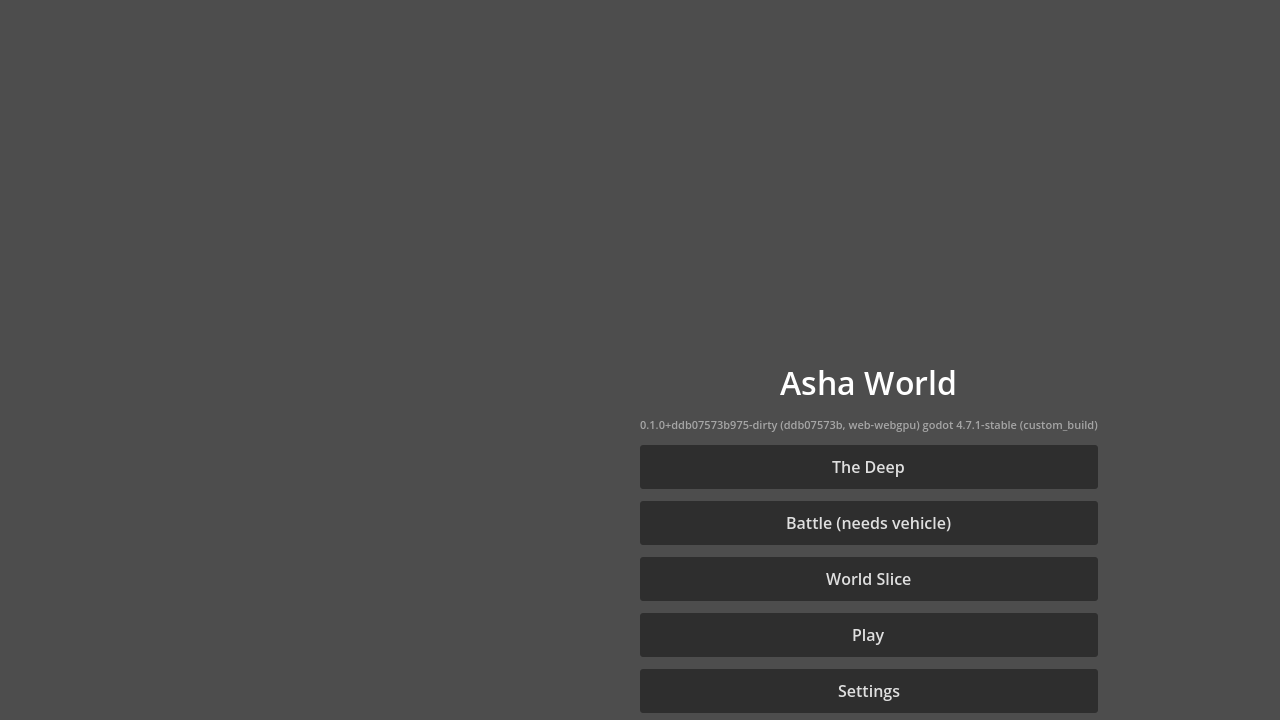
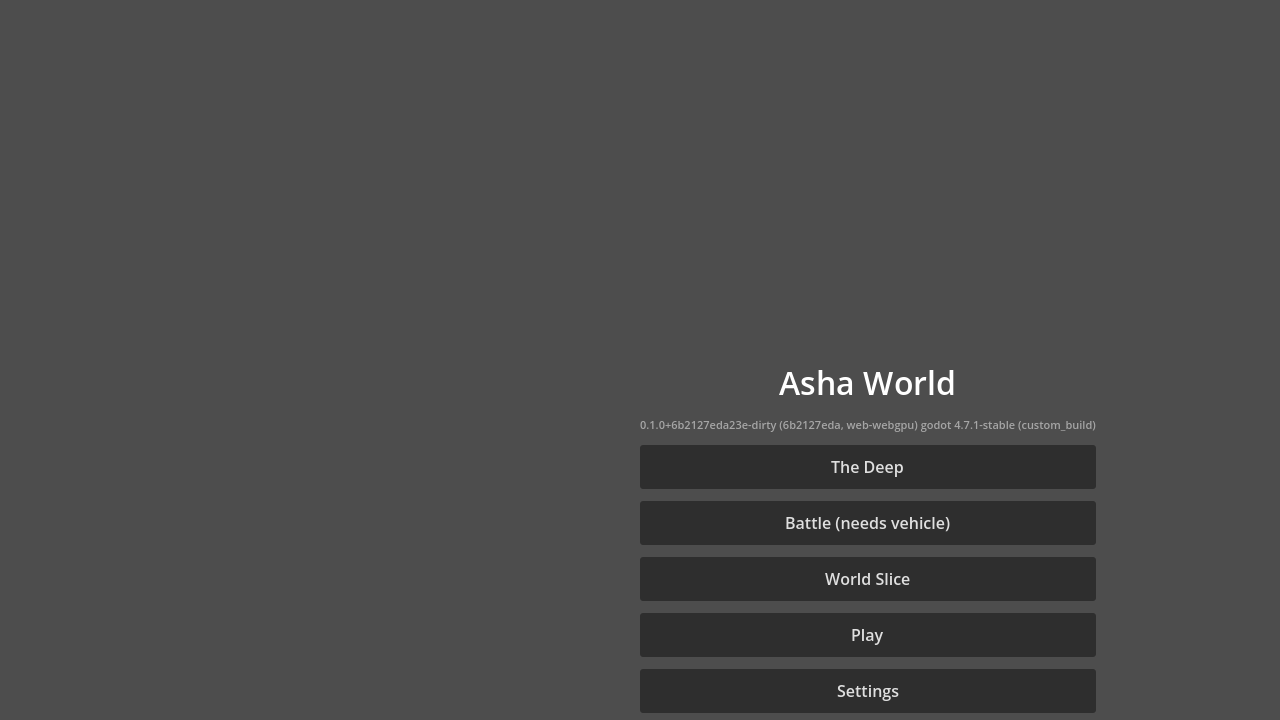
feat(mobile): touch controls on slice scenes + mobile-export runbook
StudioTouchStick on Deep + Battle HUDs (feeds the same move_* actions desktop
uses, self-hides on non-touch) so the slice plays on phone/tablet browsers
with no SDK. engine-validate still green (EXIT=0). docs/runbooks/mobile-export.md
documents the Android SDK path and that iOS needs macOS.

diff --git a/docs/runbooks/mobile-export.md b/docs/runbooks/mobile-export.md
@@ -1,0 +1,36 @@
+# Runbook: Mobile export (Android first; iOS needs macOS)
+
+## Mobile-web already works (no SDK needed)
+
+The fastest "mobile" target is the **browser build on a phone/tablet** — the
+WebGPU/WebGL export runs in mobile Chrome/Safari, and the slice now has touch
+controls (`StudioTouchStick` on the Deep + Battle HUDs, feeding the same
+`move_*` actions desktop uses, self-hiding on non-touch). Host the export
+(`docs/runbooks/public-hosting.md`) and it plays on a phone from a link.
+
+## Native Android (.apk/.aab)
+
+Requires the Android SDK + JDK 17 + Godot editor Android config. `just doctor`
+reports `android (platform) sdk: not found` until then.
+
+1. **JDK 17.** Godot's Android build targets JDK 17 (JDK 21 is installed here;
+   point Godot at a 17 install — winget `EclipseAdoptium.Temurin.17.JDK`).
+2. **Android SDK.** Install Android Studio (winget `Google.AndroidStudio`) or
+   the command-line SDK, then `sdkmanager "platform-tools" "platforms;android-34"
+   "build-tools;34.0.0" "ndk;26.1.10909125"` (Godot 4.x needs the NDK).
+3. **Godot editor settings.** Editor → Editor Settings → Export → Android: set
+   `adb`, `jarsigner`, debug keystore, and the SDK path.
+4. **Export templates.** The official 4.7.1 templates include Android
+   (`just doctor` confirms they're installed).
+5. **Export:** `just export-android GAME=games/asha_world` →
+   `games/asha_world/project/exports/android/asha_world.apk`.
+
+Evidence bar for BOOTSTRAP_REPORT.md: the .apk installs and the slice reaches
+the menu on a real device or emulator (screenshot). Until the SDK is installed,
+Android remains "documented, not evidenced."
+
+## Native iOS
+
+Requires macOS + Xcode (this machine is Windows). `just doctor` reports iOS as
+`na` here. On a Mac: `just export-ios` after the same template install; the
+slice's touch controls already cover the input model.